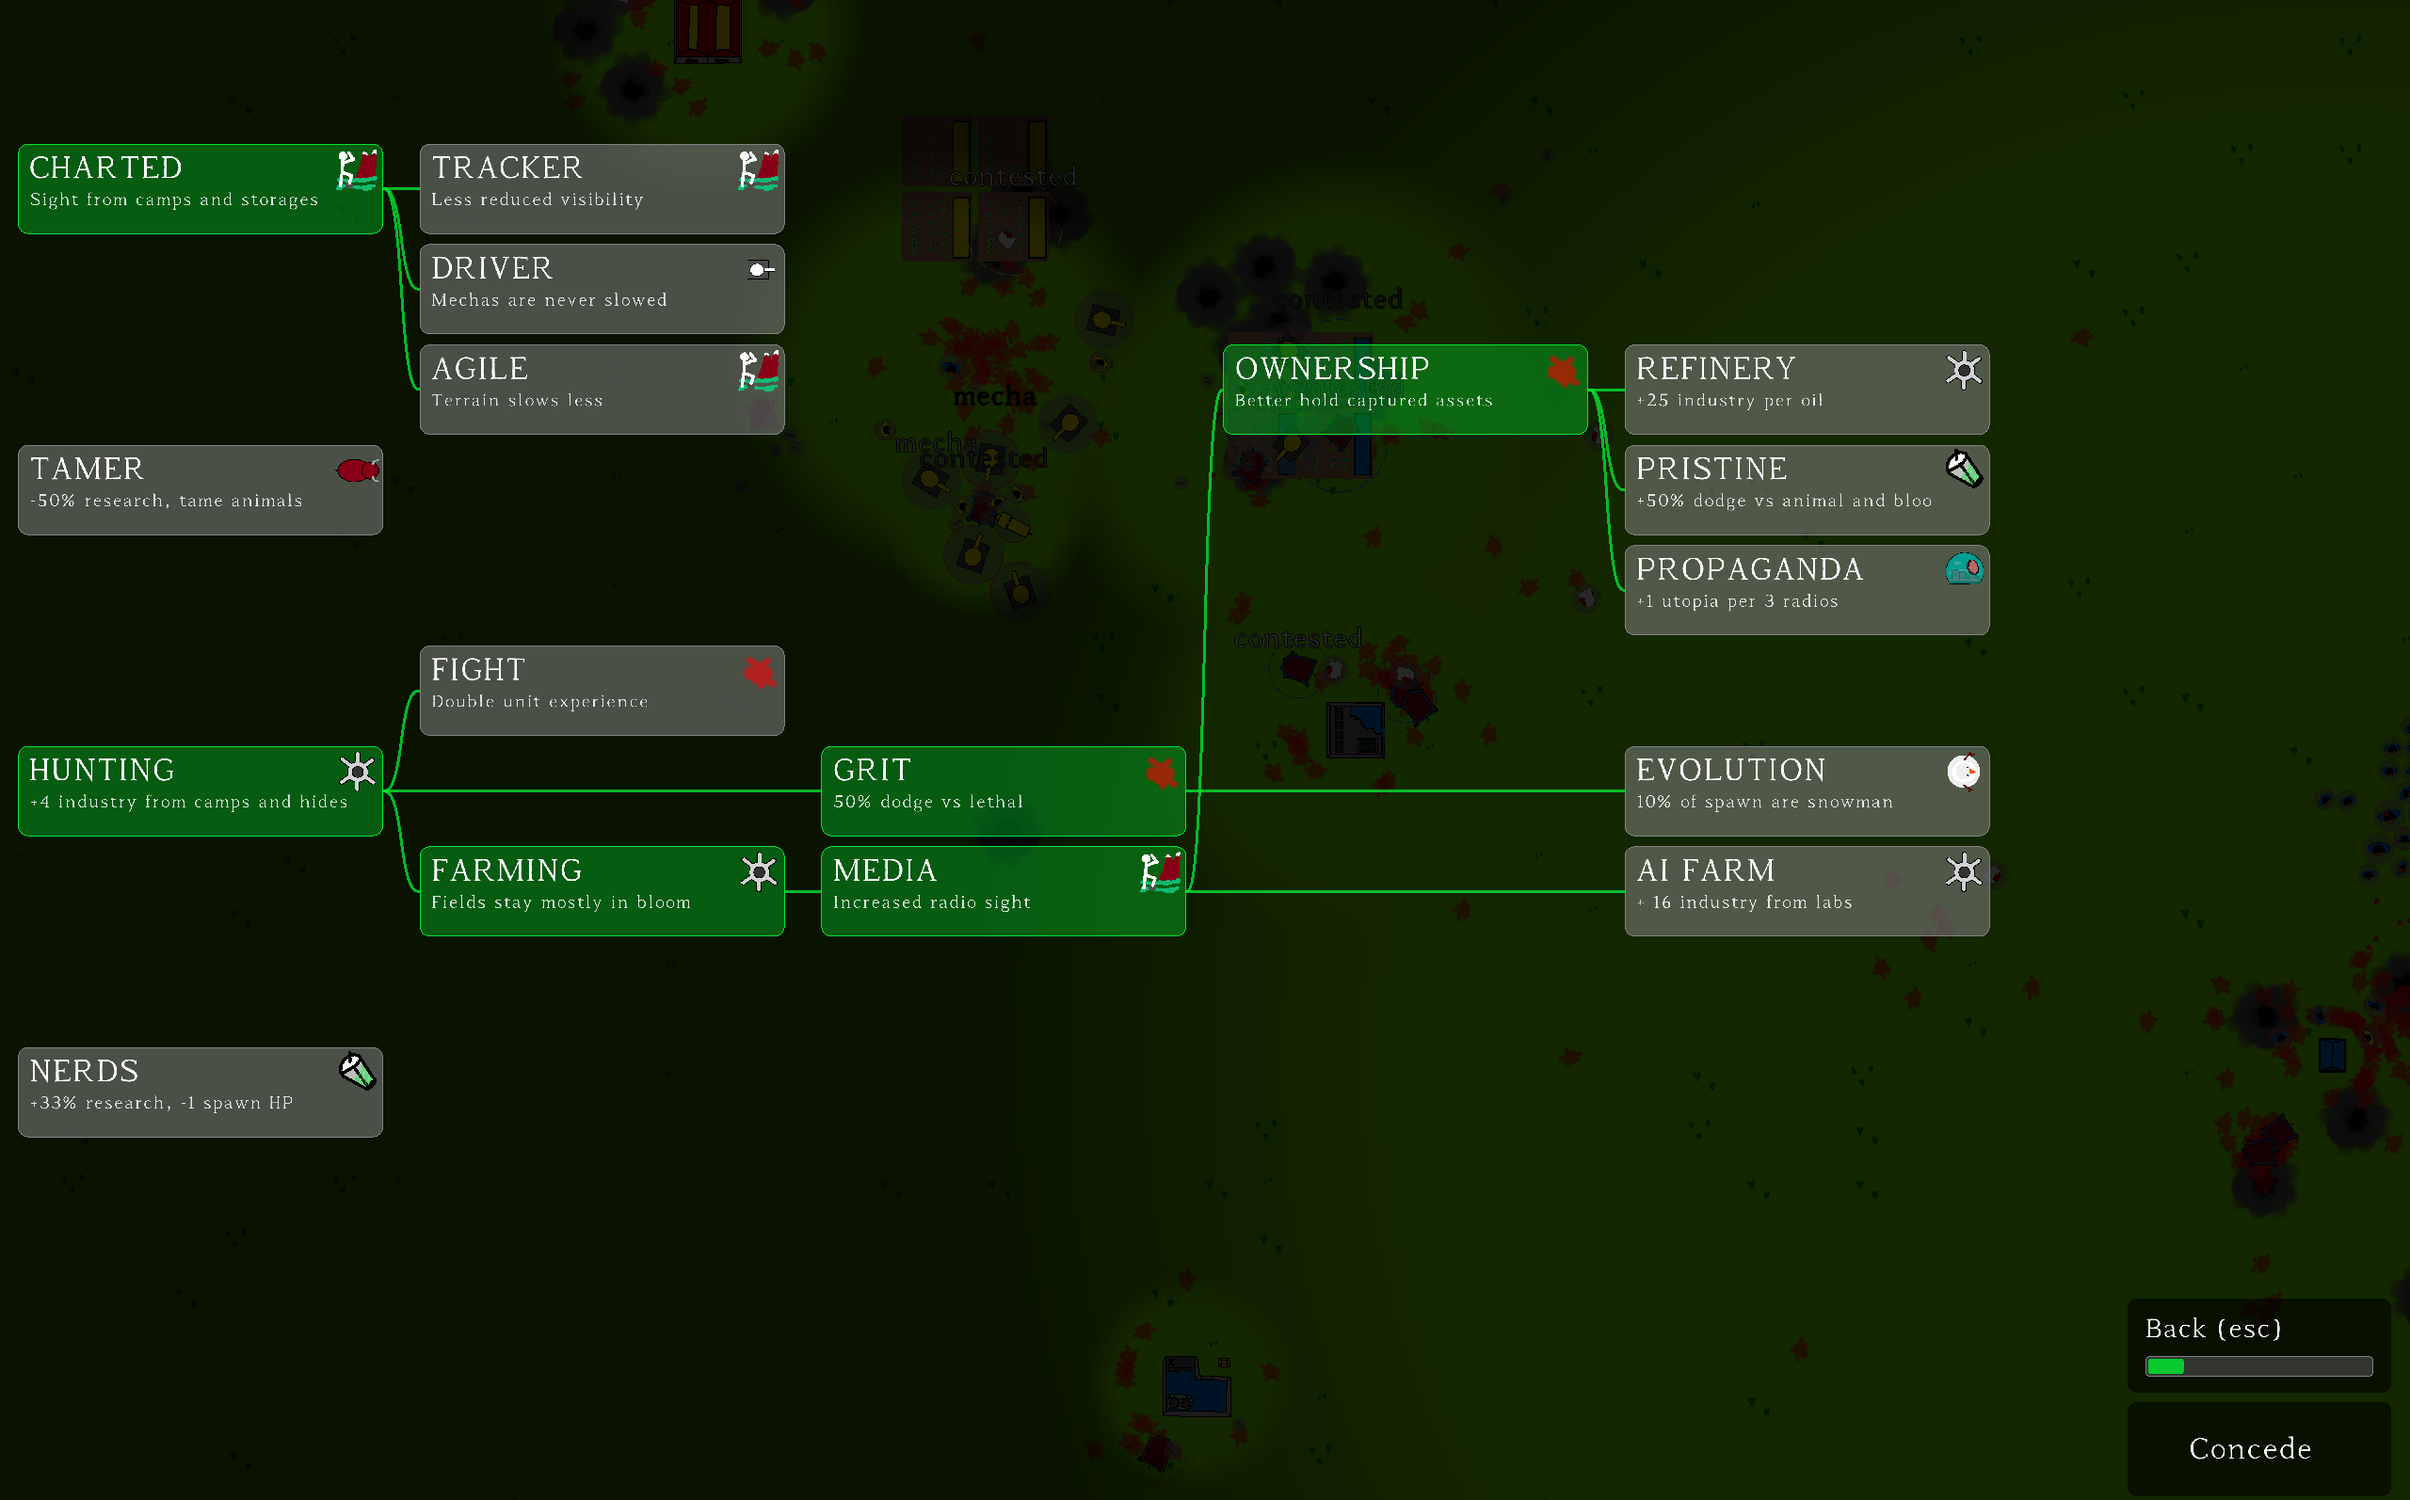
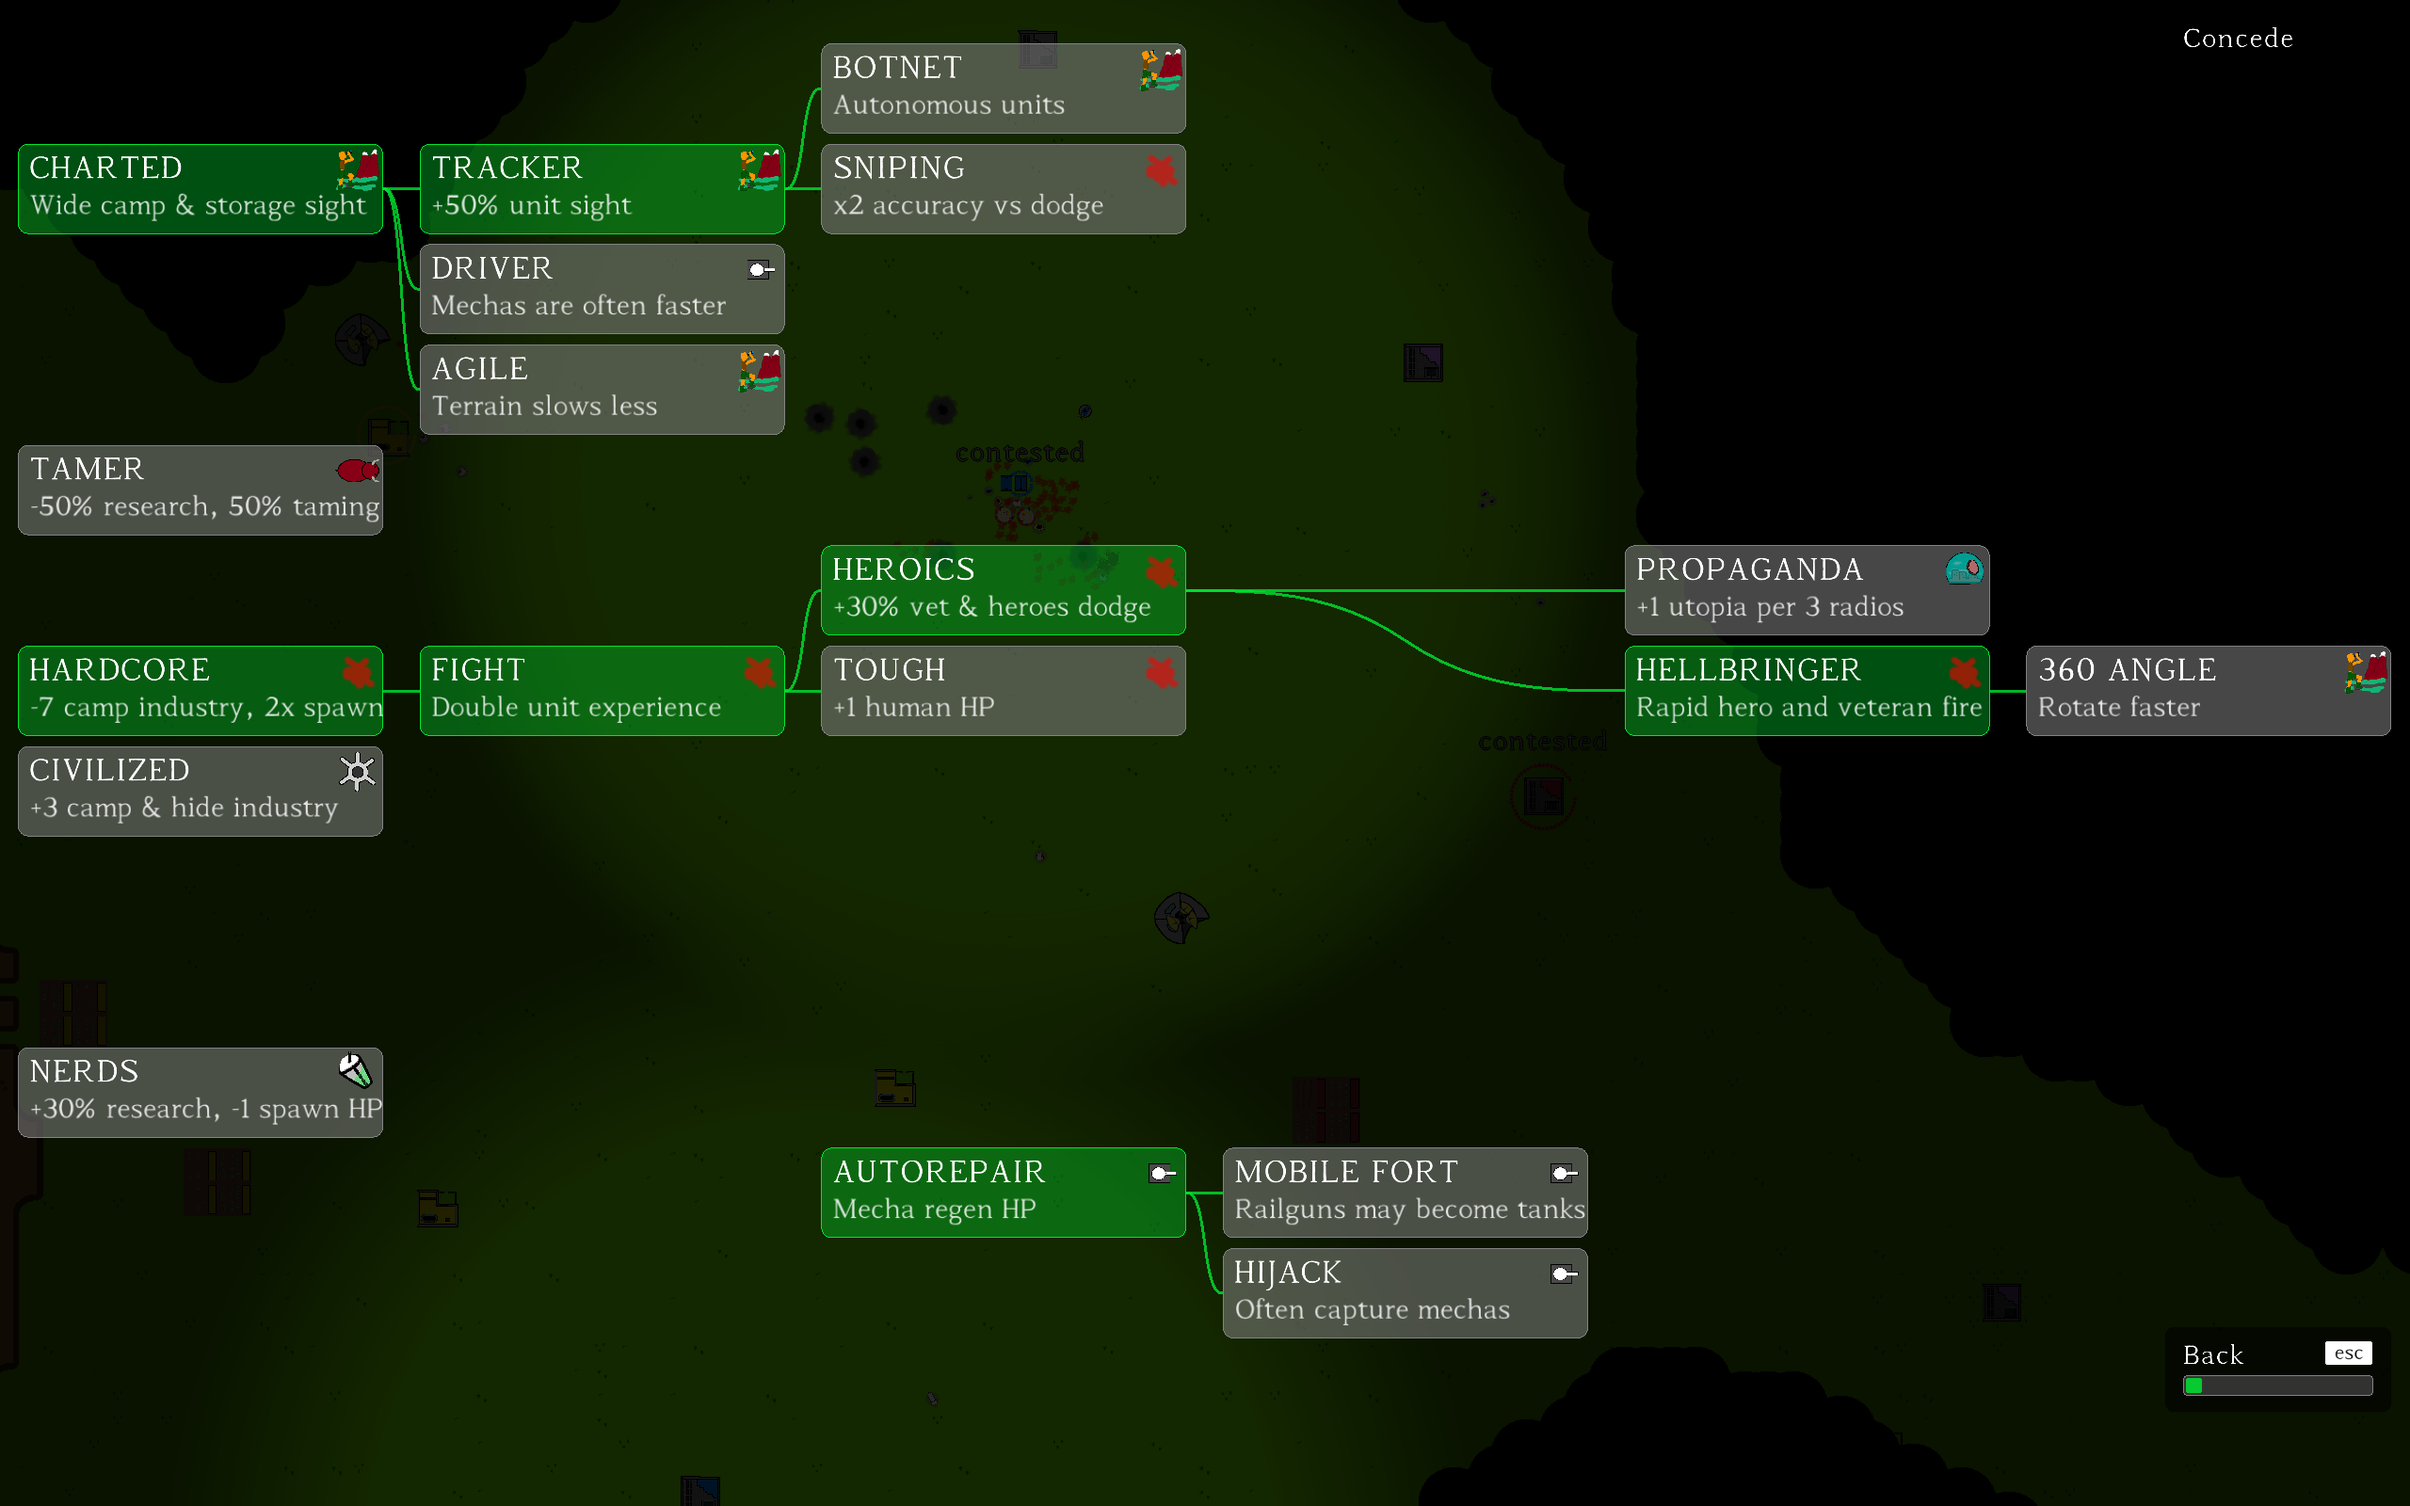
updated website

diff --git a/index.html b/index.html
@@ -168,7 +168,7 @@
 
 <header>
     <div class="container">
-        <img src="data/sun.png" style="width:512px" alt="sun">
+        <img src="data/sun.png" style="max-width:512px" alt="sun">
         <h1>MIDNIGHT <sup>next morn</sup></h1>
         <p class="tagline">
             Midnight is the end of a civilization that fails itself.<br>
@@ -196,7 +196,7 @@
         <div class="grid">
 
             <div class="card">
-                <img src="data/utopia.png" alt="utopia">
+                <img src="data/earth.png" alt="terra">
                 <div class="card-content">
                     <h3>Pollution</h3>
                     <p>
@@ -207,18 +207,18 @@
             </div>
 
             <div class="card">
-                <img src="web/black_gold.png" alt="oil">
+                <img src="web/tank.png" alt="tank">
                 <div class="card-content">
                     <h3>Salvage</h3>
                     <p>
                         Civilization is rubble.
-                        Remaining resources, industry, and machines wait to be discovered. And fought over.
+                        Remaining resources, industry, and machines wait to be discovered in a procedurally generated world. And fought over.
                     </p>
                 </div>
             </div>
 
             <div class="card">
-                <img src="web/command.png" alt="tank">
+                <img src="web/map.png" alt="map">
                 <div class="card-content">
                     <h3>Command</h3>
                     <p>
